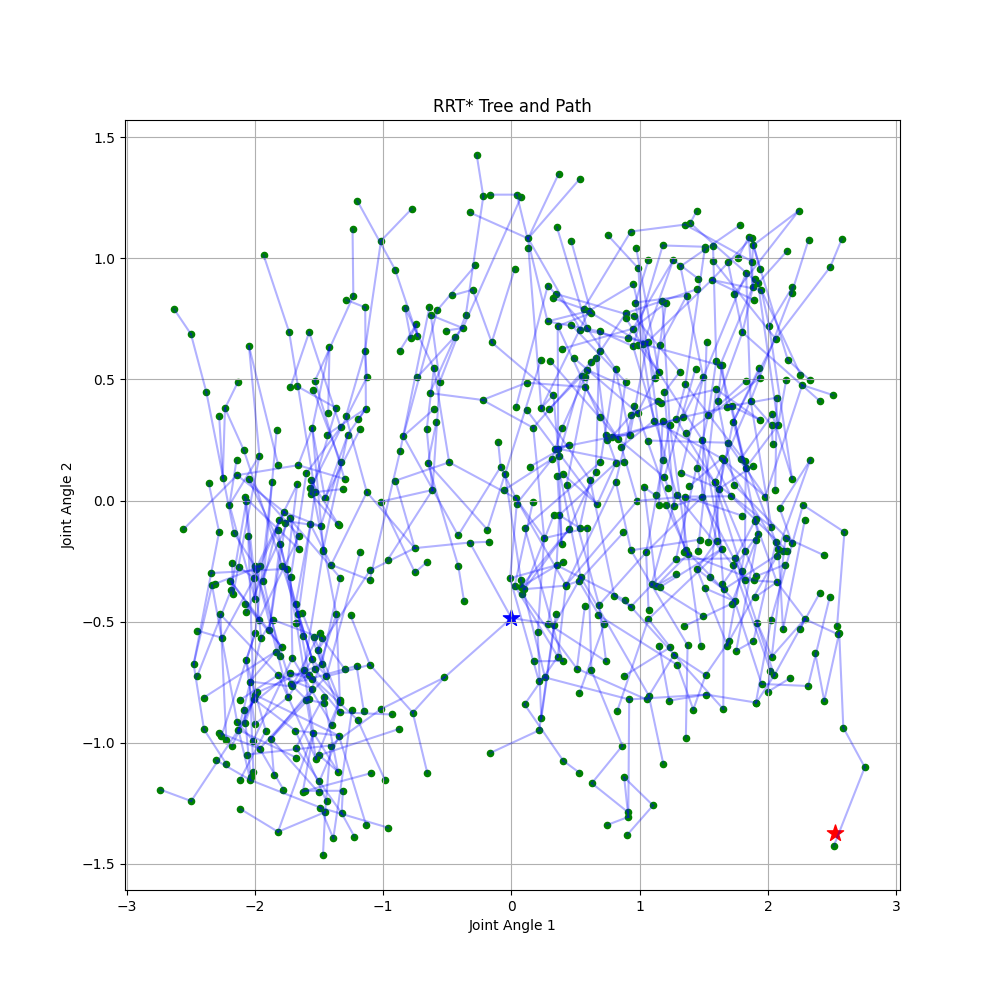
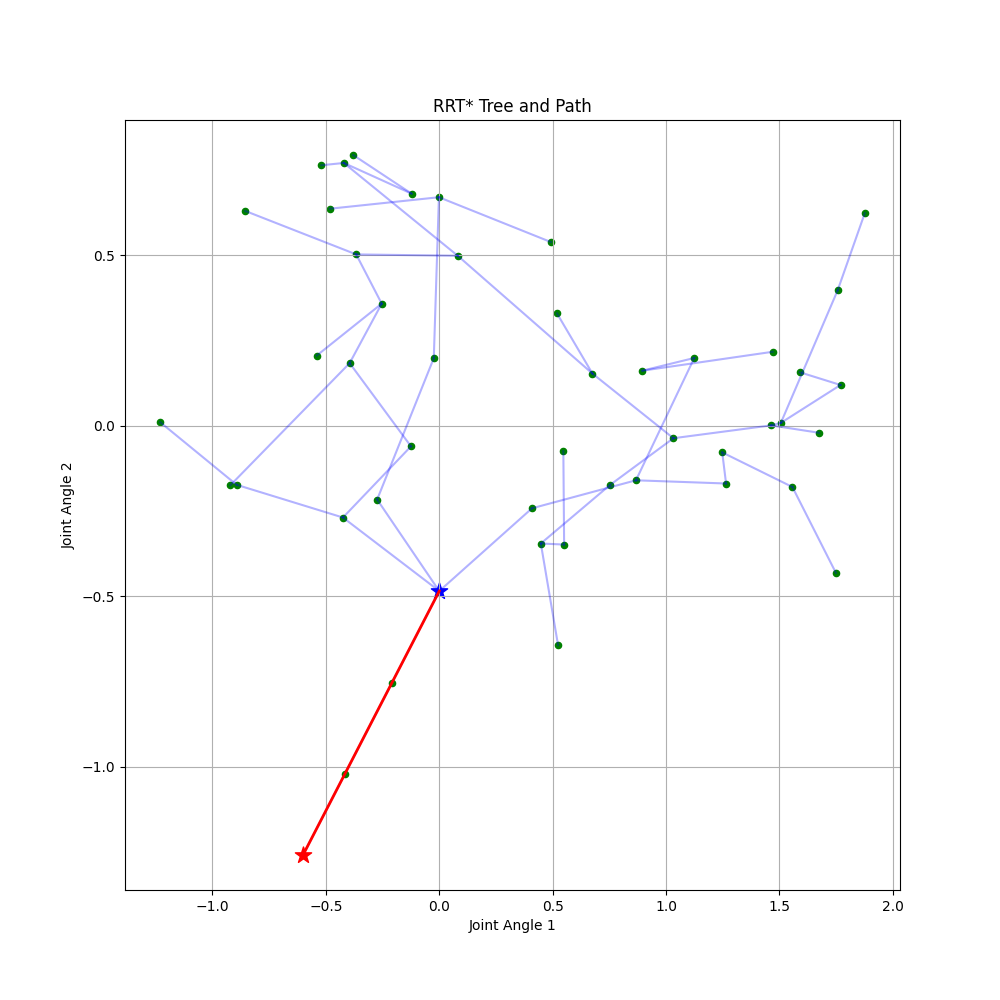
Working RRT Star

diff --git a/main.py b/main.py
@@ -7,7 +7,7 @@ import os
 
 from datetime import datetime
 
-from Planners.RRT_Star import RRT_Star,check_node_collision, check_edge_collision
+from Planners.RRT_Star import RRT,check_node_collision, check_edge_collision
 from Planners.RRT import RRTManipulatorPlanner, RealTimeRRT
 from point_cloud import draw_camera_frame, camera_to_world, world_to_camera, get_point_cloud
 from utils import *
@@ -123,10 +123,10 @@ def environment_setup(env_num = 1):
                          block_id]
         # Add Goal IDs
         sphere_visual_shape = p.createVisualShape(p.GEOM_SPHERE, radius=0.01, rgbaColor=[0, 0, 1, 1])               # Create a visual shape for the sphere (Blue Sphere)
-        goal_id_1 = p.createMultiBody(baseVisualShapeIndex=sphere_visual_shape,basePosition=[0, -0.3, 0.3], globalScaling = 0.5)       # Create a multi-body for the sphere 1
-        goal_id_2 = p.createMultiBody(baseVisualShapeIndex=sphere_visual_shape,basePosition=[-0.1, -0.4, 0.3], globalScaling = 0.5)    # Create a multi-body for the sphere 2
-        goal_id_3 = p.createMultiBody(baseVisualShapeIndex=sphere_visual_shape,basePosition=[0, -0.5, 0.3], globalScaling = 0.5)       # Create a multi-body for the sphere 3
-        goal_id_4 = p.createMultiBody(baseVisualShapeIndex=sphere_visual_shape,basePosition=[0.1, -0.4, 0.3], globalScaling = 0.5)     # Create a multi-body for the sphere 4
+        goal_id_1 = p.createMultiBody(baseVisualShapeIndex=sphere_visual_shape,basePosition=[0, -0.275, 0.3], globalScaling = 0.5)       # Create a multi-body for the sphere 1
+        goal_id_2 = p.createMultiBody(baseVisualShapeIndex=sphere_visual_shape,basePosition=[-0.15, -0.4, 0.3], globalScaling = 0.5)    # Create a multi-body for the sphere 2
+        goal_id_3 = p.createMultiBody(baseVisualShapeIndex=sphere_visual_shape,basePosition=[0, -0.525, 0.3], globalScaling = 0.5)       # Create a multi-body for the sphere 3
+        goal_id_4 = p.createMultiBody(baseVisualShapeIndex=sphere_visual_shape,basePosition=[0.15, -0.4, 0.3], globalScaling = 0.5)     # Create a multi-body for the sphere 4
         goal_id = [goal_id_1, goal_id_2, goal_id_3, goal_id_4]
 
     # Reset Panda's position to Home Position
@@ -188,28 +188,30 @@ if __name__ == "__main__":
     duration = 1000; fps = 30
     time_steps = int(duration * fps); dt = 1.0 / fps
     
+    # Simulation Parameters
     point_cloud_count = 300
     env_num = 3
-    planner = "RRT_Star"
+    planner = "RRT"
+    trial = 1
 
     # Set the environment
     physics_client, collision_ids, goal_id, robot_id, home_positions = environment_setup(env_num=env_num)
 
     # Get the goal position
-    # goal_positions = [home_positions]
-    # for goal in goal_id:
-    #     collision_flag = True
-    #     while collision_flag:
-    #         joint_angles = np.array(inverse_kinematics(robot_id, target_position=p.getBasePositionAndOrientation(goal)[0]))
-    #         collision_flag = check_node_collision(robot_id=robot_id, object_ids=collision_ids, joint_position=joint_angles)
-    #     goal_positions.append(joint_angles)
+    goal_positions = [home_positions]
+    for goal in goal_id:
+        collision_flag = True
+        while collision_flag:
+            joint_angles = np.array(inverse_kinematics(robot_id, target_position=p.getBasePositionAndOrientation(goal)[0]))
+            collision_flag = check_node_collision(robot_id=robot_id, object_ids=collision_ids, joint_position=joint_angles)
+        goal_positions.append(joint_angles)
 
     # Set Goal Positions Manually
-    goal_positions = [[0.0, -0.485, 0.0, -1.056, 0.0, 0.7, 0.785]]
-    # goal_positions.append([ 1.97188, 1.07719, 2.95013, -2.52129, 2.89555, 3.79802, -2.05033])
-    # goal_positions.append([ 2.69055, 1.76893, 2.18599, -2.28916, 2.47068, 3.64461, -0.79935])
-    # goal_positions.append([ 2.72501, -1.37319, 1.40152, -1.32626, -0.15509, 1.31711, -0.98499])
-    goal_positions.append([-0.08591, 1.8026, -2.12464, -1.71271, 0.10433, 1.1911, -0.8379])
+    # goal_positions = [[0.0, -0.485, 0.0, -1.056, 0.0, 0.7, 0.785]]
+    # goal_positions.append([-0.65549, -1.30695, -0.4486, -2.49946, -0.56846, 1.58664, 1.44348])
+    # goal_positions.append([0.01681, -1.47467, -1.19143, -1.64938, -0.03284, 1.0331, 1.12646])
+    # goal_positions.append([0.7525, -1.40687, -1.62129, -1.06531, 0.62093, 0.7293, -0.17201])
+    # goal_positions.append([0.16114, -0.56954, -0.70797, -2.31241, -1.41054, 1.06115, -2.65308])
 
     # Move to all goal positions to check for collisions
     for i,goal_position in enumerate(goal_positions):
@@ -220,9 +222,22 @@ if __name__ == "__main__":
 
     # Create and setup environment
     if planner == "RRT":
-        print(f"Get Position from ID: {get_position_from_id(goal_id[0])[0]}")
-        planner = RRTManipulatorPlanner(robot_id= robot_id, collision_ids=collision_ids)
-        planner.run(get_position_from_id(goal_id[0])[0])
+        path_saved = np.array([goal_positions[0]]) # Start at the first goal position
+        for i in range(1, len(goal_positions)):
+            print(f"\nRunning RRT Motion Planner for goal position {i}")
+            print(f"Start position: {np.round(goal_positions[i-1],5)}")
+            print(f"Goal position: {np.round(goal_positions[i],5)}")
+
+            # Initialize the RRT planner
+            rrt = RRT(q_start=goal_positions[i-1], q_goal=goal_positions[i], robot_id=robot_id, obstacle_ids=collision_ids, max_iter=2000, step_size=0.5)
+
+            # Run the RRT planner
+            path_saved = np.concatenate((path_saved, rrt.get_path()), axis=0)
+
+            # Visualize the path
+            rrt.visualize(goal_index = i, planner=planner, trial = trial)
+
+        print(f"Path saved: {np.round(path_saved,5)}")
     elif planner == "RRT_Star":
         path_saved = np.array([goal_positions[0]]) # Start at the first goal position
         for i in range(1, len(goal_positions)):
@@ -231,13 +246,13 @@ if __name__ == "__main__":
             print(f"Goal position: {np.round(goal_positions[i],5)}")
 
             # Initialize the RRT planner
-            rrt = RRT_Star(q_start=goal_positions[i-1], q_goal=goal_positions[i], robot_id=robot_id, obstacle_ids=collision_ids, max_iter=2000, step_size=0.75)
+            rrt = RRT(q_start=goal_positions[i-1], q_goal=goal_positions[i], robot_id=robot_id, obstacle_ids=collision_ids, max_iter=2000, step_size=0.75)
 
             # Run the RRT planner
             path_saved = np.concatenate((path_saved, rrt.get_path()), axis=0)
 
             # Visualize the path
-            rrt.visualize(goal_index = i)
+            rrt.visualize(goal_index = i, planner=planner, trial = trial)
 
         print(f"Path saved: {np.round(path_saved,5)}")
 
@@ -317,6 +332,13 @@ if __name__ == "__main__":
             frame = p.getCameraImage(1280, 960)
             frames_list.append(frame[2])
             
+            # Change the color of the goal that has been reached
+            if any(np.allclose(waypoint, goal) for goal in goal_positions[1:]):
+                goal_index = next(i for i, goal in enumerate(goal_positions[1:], 1) if np.allclose(waypoint, goal)) - 1 
+                p.changeVisualShape(goal_id[goal_index], -1, rgbaColor=[0, 1, 0, 1])  # Change color to green
+                print(f"Goal Reached: {goal_index}")
+                print(f"Goal position {goal_index}: {np.round(goal_positions[goal_index+1], 5)}")
+
             # Update the waypoint to the next one
             try:
                 waypoint = next(path_iterator)
@@ -326,7 +348,7 @@ if __name__ == "__main__":
         else:
             # Calculate the target positions to reach the next waypoint
             for joint_index, target_position in enumerate(waypoint):  
-                p.setJointMotorControl2(bodyIndex=robot_id, jointIndex=joint_index, controlMode=p.POSITION_CONTROL, targetPosition=target_position, positionGain=0.03, velocityGain=1.0, maxVelocity=0.1)
+                p.setJointMotorControl2(bodyIndex=robot_id, jointIndex=joint_index, controlMode=p.POSITION_CONTROL, targetPosition=target_position, positionGain=0.03, velocityGain=1.0, maxVelocity=0.5)
 
         # Take a simulation step
         p.stepSimulation()            
@@ -338,7 +360,7 @@ if __name__ == "__main__":
             for frame in frames_list:
                 writer.append_data(frame)
     if planner == "RRT_Star":
-        with imageio.get_writer('./Video_Demos/RRT_Star_09.gif', mode='I', duration=duration/len(frames_list)) as writer:
+        with imageio.get_writer(f'./Video_Demos/RRT_Star_{trial:02d}.gif', mode='I', duration=duration/len(frames_list)) as writer:
             for frame in frames_list:
                 writer.append_data(frame)
     if planner == "RRT_Real_Time":

diff --git a/Planners/RRT_Star.py b/Planners/RRT_Star.py
@@ -76,7 +76,7 @@ class Node:
 ######################################################################
 ############################# RRT CLASS ##############################
 ######################################################################
-class RRT_Star:
+class RRT:
     def __init__(self, q_start, q_goal, robot_id, obstacle_ids, max_iter=500, step_size=0.5):
         """ RRT Initialization """
         self.q_start = Node(q_start)
@@ -173,7 +173,36 @@ class RRT_Star:
             if np.linalg.norm(x) <= 1:
                 return x
 
-    def plan(self, initial_goal_bias=0.1, final_goal_bias=1.0, c_best = float('inf')):
+    def plan_RRT(self, initial_goal_bias=0.1, final_goal_bias=1.0, c_best = float('inf')):
+        """ Run the RRT algorithm with a dynamically increasing goal bias. """
+        for i in range(self.max_iter):
+            # Variable increase goal bias over iterations
+            goal_bias = self.variable_goal_bias(i, self.max_iter, initial_goal_bias, final_goal_bias)
+
+            # Use goal bias to select the goal as the target with some probability
+            if np.random.rand() < goal_bias:
+                random_point = self.q_goal.joint_angles
+            else:
+                random_point = self.informed_sample(c_best)
+
+            nearest_node = self.get_nearest_node(random_point)
+            new_node = self.step(nearest_node, random_point)
+
+            # Check for collisions
+            if not check_edge_collision(self.robot_id, self.obstacle_ids, nearest_node.joint_angles, new_node.joint_angles):
+                new_node.parent = nearest_node
+                new_node.cost = nearest_node.cost + np.linalg.norm(new_node.joint_angles - nearest_node.joint_angles)
+                self.node_list.append(new_node)
+
+                if np.linalg.norm(new_node.joint_angles - self.q_goal.joint_angles) < self.step_size:
+                    if not check_edge_collision(self.robot_id, self.obstacle_ids, new_node.joint_angles, self.q_goal.joint_angles):
+                        self.q_goal.parent = new_node
+                        self.q_goal.cost = new_node.cost + np.linalg.norm(self.q_goal.joint_angles - new_node.joint_angles)
+                        self.node_list.append(self.q_goal)
+                        break
+
+
+    def plan_RRT_Star(self, initial_goal_bias=0.1, final_goal_bias=1.0, c_best = float('inf')):
         """Run the RRT* algorithm with dynamically increasing goal bias."""
         for i in range(self.max_iter):
             # Variable increase goal bias over iterations
@@ -208,10 +237,13 @@ class RRT_Star:
 
         return self.node_list
 
-    def get_path(self):
+    def get_path(self, planner="RRT_Star"):
         """Return the path from the start node to the goal node."""
 
-        self.plan()
+        if planner == "RRT_Star":
+            self.plan_RRT_Star()
+        if planner == "RRT":
+            self.plan_RRT()
 
         node = self.q_goal
         while node is not None:
@@ -223,7 +255,7 @@ class RRT_Star:
             
         return self.path[::-1]
 
-    def visualize(self, goal_index=None):
+    def visualize(self, goal_index=None, planner="RRT_Star", trial = 1):
         """Visualize the RRT* tree and path."""
         plt.figure(figsize=(10, 10))
         
@@ -249,8 +281,17 @@ class RRT_Star:
             path_y = [node[1] for node in self.path]
             plt.plot(path_x, path_y, 'r-', linewidth=2)  # Red line for the final path
         
-        plt.title("RRT* Tree and Path")
-        plt.xlabel("Joint Angle 1")
-        plt.ylabel("Joint Angle 2")
-        plt.grid(True)
-        plt.savefig(f"Visualizations/RRT_Star_09_{goal_index:02d}.png")
+        # Save the plot
+        if planner == "RRT":
+            plt.title("RRT Tree and Path")
+            plt.xlabel("Joint Angle 1")
+            plt.ylabel("Joint Angle 2")
+            plt.grid(True)
+            plt.savefig(f"Visualizations/RRT_{trial:02d}_{goal_index:02d}.png")
+
+        if planner == "RRT_Star":
+            plt.title("RRT* Tree and Path")
+            plt.xlabel("Joint Angle 1")
+            plt.ylabel("Joint Angle 2")
+            plt.grid(True)
+            plt.savefig(f"Visualizations/RRT_Star_{trial:02d}_{goal_index:02d}.png")

diff --git a/utils.py b/utils.py
@@ -138,7 +138,7 @@ def damped_least_squares_ik(robot_id, target_position, target_orientation, joint
     
     return current_joint_angles
 
-def inverse_kinematics(robot_id, target_position, target_orientation=None, num_attempts=5):
+def inverse_kinematics(robot_id, target_position, target_orientation=None, num_attempts=5, joint_limits_scale = 0.9):
     """
     Compute joint angles for a target gripper position using step-by-step IK.
     """
@@ -153,7 +153,10 @@ def inverse_kinematics(robot_id, target_position, target_orientation=None, num_a
     joint_limits = []
     for i in movable_joints:
         joint_info = p.getJointInfo(robot_id, i)
-        joint_limits.append(joint_info[8:10])
+        lower_limit, upper_limit = joint_info[8:10]
+        scaled_lower = lower_limit * joint_limits_scale
+        scaled_upper = upper_limit * joint_limits_scale
+        joint_limits.append((scaled_lower, scaled_upper))
 
     for _ in range(num_attempts):
         # Randomize target orientation if not provided
